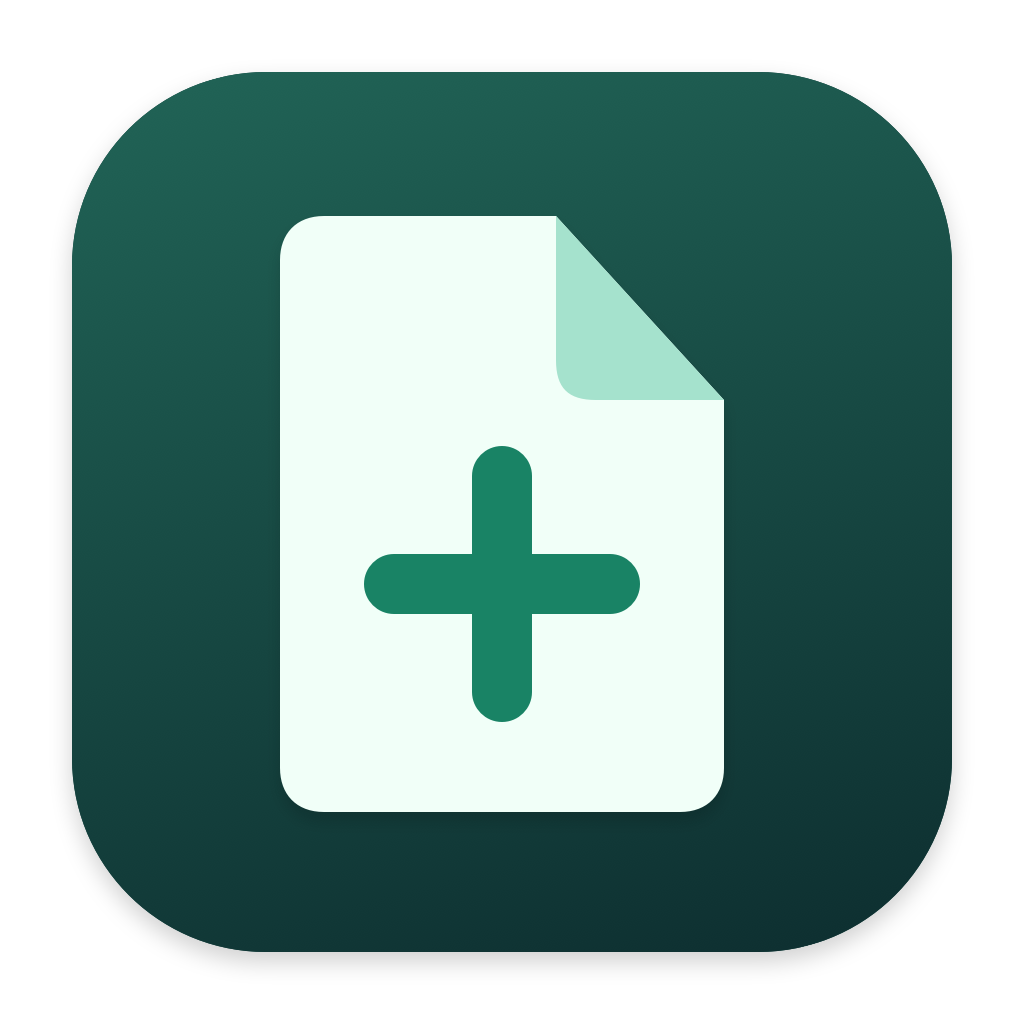
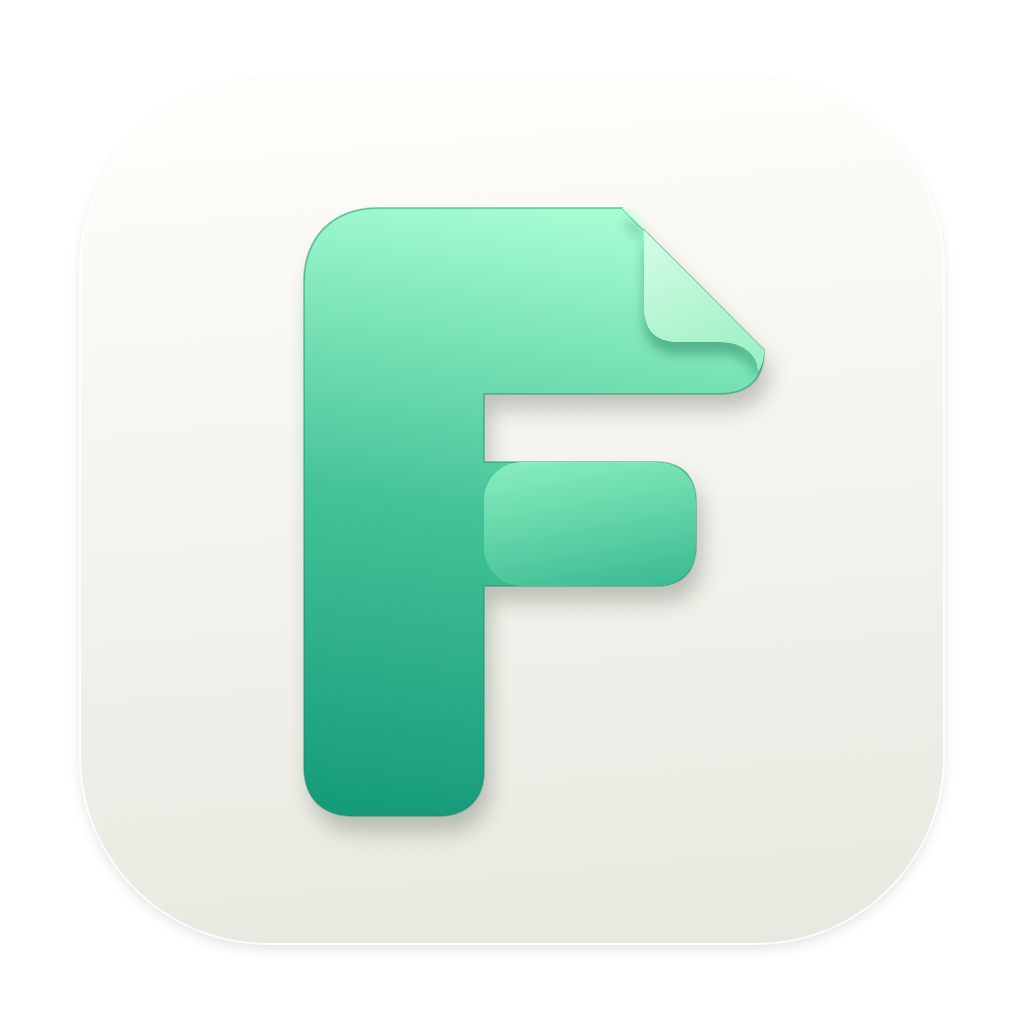
Redesign Folded F identity and make GitHub provenance the default

diff --git a/scripts/generate_app_icon.swift b/scripts/generate_app_icon.swift
@@ -13,17 +13,38 @@ func color(_ r: CGFloat, _ g: CGFloat, _ b: CGFloat) -> NSColor {
     NSColor(srgbRed: r / 255, green: g / 255, blue: b / 255, alpha: 1)
 }
 
-func document() -> NSBezierPath {
+func foldedF() -> NSBezierPath {
     let p = NSBezierPath()
-    p.move(to: NSPoint(x: 324, y: 212))
-    p.line(to: NSPoint(x: 680, y: 212))
-    p.curve(to: NSPoint(x: 724, y: 256), controlPoint1: NSPoint(x: 708, y: 212), controlPoint2: NSPoint(x: 724, y: 230))
-    p.line(to: NSPoint(x: 724, y: 624))
-    p.line(to: NSPoint(x: 556, y: 808))
-    p.line(to: NSPoint(x: 324, y: 808))
-    p.curve(to: NSPoint(x: 280, y: 764), controlPoint1: NSPoint(x: 296, y: 808), controlPoint2: NSPoint(x: 280, y: 790))
-    p.line(to: NSPoint(x: 280, y: 256))
-    p.curve(to: NSPoint(x: 324, y: 212), controlPoint1: NSPoint(x: 280, y: 230), controlPoint2: NSPoint(x: 296, y: 212))
+    p.move(to: NSPoint(x: 354, y: 208))
+    p.line(to: NSPoint(x: 438, y: 208))
+    p.curve(to: NSPoint(x: 484, y: 254), controlPoint1: NSPoint(x: 467, y: 208), controlPoint2: NSPoint(x: 484, y: 225))
+    p.line(to: NSPoint(x: 484, y: 438))
+    p.line(to: NSPoint(x: 654, y: 438))
+    p.curve(to: NSPoint(x: 696, y: 480), controlPoint1: NSPoint(x: 682, y: 438), controlPoint2: NSPoint(x: 696, y: 452))
+    p.line(to: NSPoint(x: 696, y: 520))
+    p.curve(to: NSPoint(x: 654, y: 562), controlPoint1: NSPoint(x: 696, y: 548), controlPoint2: NSPoint(x: 682, y: 562))
+    p.line(to: NSPoint(x: 484, y: 562))
+    p.line(to: NSPoint(x: 484, y: 630))
+    p.line(to: NSPoint(x: 718, y: 630))
+    p.curve(to: NSPoint(x: 764, y: 674), controlPoint1: NSPoint(x: 751, y: 630), controlPoint2: NSPoint(x: 764, y: 647))
+    p.line(to: NSPoint(x: 622, y: 816))
+    p.line(to: NSPoint(x: 378, y: 816))
+    p.curve(to: NSPoint(x: 304, y: 742), controlPoint1: NSPoint(x: 333, y: 816), controlPoint2: NSPoint(x: 304, y: 787))
+    p.line(to: NSPoint(x: 304, y: 258))
+    p.curve(to: NSPoint(x: 354, y: 208), controlPoint1: NSPoint(x: 304, y: 226), controlPoint2: NSPoint(x: 322, y: 208))
+    p.close()
+    return p
+}
+
+func paperFold() -> NSBezierPath {
+    let p = NSBezierPath()
+    p.move(to: NSPoint(x: 622, y: 816))
+    p.curve(to: NSPoint(x: 644, y: 788), controlPoint1: NSPoint(x: 639, y: 816), controlPoint2: NSPoint(x: 644, y: 805))
+    p.line(to: NSPoint(x: 644, y: 720))
+    p.curve(to: NSPoint(x: 680, y: 682), controlPoint1: NSPoint(x: 644, y: 693), controlPoint2: NSPoint(x: 655, y: 682))
+    p.line(to: NSPoint(x: 720, y: 682))
+    p.curve(to: NSPoint(x: 758, y: 653), controlPoint1: NSPoint(x: 742, y: 682), controlPoint2: NSPoint(x: 758, y: 670))
+    p.curve(to: NSPoint(x: 764, y: 674), controlPoint1: NSPoint(x: 763, y: 659), controlPoint2: NSPoint(x: 764, y: 668))
     p.close()
     return p
 }
@@ -36,39 +57,63 @@ func draw(pixels: Int, glyph: Bool = false) -> NSBitmapImageRep {
     NSGraphicsContext.current = NSGraphicsContext(bitmapImageRep: rep)
     let transform = AffineTransform(scale: CGFloat(pixels) / 1024)
     (transform as NSAffineTransform).concat()
+    let shape = foldedF()
     if glyph {
-        let shape = document()
-        NSColor.black.setStroke()
-        shape.lineWidth = 66
-        shape.lineJoinStyle = .round
-        shape.stroke()
-        let plus = NSBezierPath()
-        plus.move(to: NSPoint(x: 394, y: 448)); plus.line(to: NSPoint(x: 610, y: 448))
-        plus.move(to: NSPoint(x: 502, y: 340)); plus.line(to: NSPoint(x: 502, y: 556))
-        plus.lineWidth = 66; plus.lineCapStyle = .round; plus.stroke()
+        // Fit the actual silhouette into 15 points of an 18-point toolbar asset.
+        let placement = AffineTransform(m11: 1.42, m12: 0, m21: 0, m22: 1.42, tX: -246, tY: -215)
+        shape.transform(using: placement)
+        NSColor.black.setFill(); shape.fill()
+        let foldCut = NSBezierPath()
+        foldCut.move(to: NSPoint(x: 636, y: 778))
+        foldCut.line(to: NSPoint(x: 636, y: 703))
+        foldCut.line(to: NSPoint(x: 711, y: 703))
+        foldCut.close()
+        foldCut.transform(using: placement)
+        NSGraphicsContext.current?.compositingOperation = .clear
+        foldCut.fill()
     } else {
-        let tile = NSBezierPath(roundedRect: NSRect(x: 72, y: 72, width: 880, height: 880), xRadius: 194, yRadius: 194)
+        let tile = NSBezierPath(roundedRect: NSRect(x: 80, y: 80, width: 864, height: 864), xRadius: 188, yRadius: 188)
         NSGraphicsContext.saveGraphicsState()
-        let shadow = NSShadow(); shadow.shadowColor = NSColor.black.withAlphaComponent(0.18)
-        shadow.shadowBlurRadius = 24; shadow.shadowOffset = NSSize(width: 0, height: -10); shadow.set()
-        color(19, 69, 64).setFill(); tile.fill()
+        let tileShadow = NSShadow()
+        tileShadow.shadowColor = NSColor.black.withAlphaComponent(0.10)
+        tileShadow.shadowBlurRadius = 12
+        tileShadow.shadowOffset = NSSize(width: 0, height: -5)
+        tileShadow.set()
+        color(247, 246, 240).setFill(); tile.fill()
         NSGraphicsContext.restoreGraphicsState()
-        NSGradient(starting: color(32, 98, 85), ending: color(14, 48, 49))!.draw(in: tile, angle: -75)
+        NSGradient(starting: color(255, 254, 250), ending: color(232, 231, 224))!.draw(in: tile, angle: -85)
+        NSColor.white.withAlphaComponent(0.85).setStroke(); tile.lineWidth = 2; tile.stroke()
+
         NSGraphicsContext.saveGraphicsState()
-        let paperShadow = NSShadow(); paperShadow.shadowColor = NSColor.black.withAlphaComponent(0.14)
-        paperShadow.shadowBlurRadius = 16; paperShadow.shadowOffset = NSSize(width: 0, height: -10); paperShadow.set()
-        color(241, 255, 248).setFill(); document().fill()
+        let paperShadow = NSShadow()
+        paperShadow.shadowColor = color(39, 67, 47).withAlphaComponent(0.28)
+        paperShadow.shadowBlurRadius = 22
+        paperShadow.shadowOffset = NSSize(width: 6, height: -16)
+        paperShadow.set()
+        color(22, 159, 123).setFill(); shape.fill()
         NSGraphicsContext.restoreGraphicsState()
-        let fold = NSBezierPath()
-        fold.move(to: NSPoint(x: 556, y: 808)); fold.line(to: NSPoint(x: 556, y: 664))
-        fold.curve(to: NSPoint(x: 596, y: 624), controlPoint1: NSPoint(x: 556, y: 636), controlPoint2: NSPoint(x: 568, y: 624))
-        fold.line(to: NSPoint(x: 724, y: 624)); fold.close()
-        color(165, 226, 205).setFill(); fold.fill()
-        let plus = NSBezierPath()
-        plus.move(to: NSPoint(x: 394, y: 440)); plus.line(to: NSPoint(x: 610, y: 440))
-        plus.move(to: NSPoint(x: 502, y: 332)); plus.line(to: NSPoint(x: 502, y: 548))
-        plus.lineWidth = 60; plus.lineCapStyle = .round
-        color(25, 131, 101).setStroke(); plus.stroke()
+        NSGradient(colors: [color(21, 154, 122), color(68, 195, 151), color(169, 255, 212)])!
+            .draw(in: shape, angle: 82)
+        color(30, 137, 105).withAlphaComponent(0.42).setStroke()
+        shape.lineWidth = 2; shape.stroke()
+
+        // Subtle sheet overlap; all geometry remains vector-native at small sizes.
+        NSGraphicsContext.saveGraphicsState()
+        shape.addClip()
+        let middle = NSBezierPath(roundedRect: NSRect(x: 484, y: 438, width: 212, height: 124), xRadius: 38, yRadius: 38)
+        NSGradient(starting: color(134, 237, 190), ending: color(60, 187, 146))!.draw(in: middle, angle: -80)
+        NSGraphicsContext.restoreGraphicsState()
+
+        NSGraphicsContext.saveGraphicsState()
+        shape.addClip()
+        let foldShadow = NSShadow()
+        foldShadow.shadowColor = color(5, 96, 64).withAlphaComponent(0.38)
+        foldShadow.shadowBlurRadius = 12
+        foldShadow.shadowOffset = NSSize(width: 0, height: -12)
+        foldShadow.set()
+        color(180, 255, 218).setFill(); paperFold().fill()
+        NSGraphicsContext.restoreGraphicsState()
+        NSGradient(starting: color(221, 255, 235), ending: color(153, 239, 193))!.draw(in: paperFold(), angle: -65)
     }
     NSGraphicsContext.restoreGraphicsState()
     return rep

diff --git a/docs/DISTRIBUTION.md b/docs/DISTRIBUTION.md
@@ -11,6 +11,10 @@ An ad-hoc signature validates bundle integrity but does not identify a trusted
 Apple developer. GitHub provenance identifies a repository/workflow/source
 commit; it does not grant Gatekeeper or Finder extension trust.
 
+CI also retains a reviewable DMG and attests trusted main-branch builds.
+The attestation job never runs for pull requests and has its own narrowly scoped
+OIDC/attestation permissions. Ordinary test/build jobs cannot mint attestations.
+
 The Release workflow checks out the version tag, verifies behavior, builds both
 architectures, signs nested code first, packages and verifies the DMG, attests
 its final bytes, verifies that attestation and only then publishes the assets.
@@ -26,18 +30,17 @@ git push origin main v0.2.0
 Release evidence should include the Actions URL, downloaded asset checksum,
 attestation verification and actual runtime results, not just build success.
 
-## Future Apple channel
+## Standing release policy
 
-When the owner obtains a Developer ID Application certificate, configure the
-app and extension for that team. The current distribution uses a sandbox
-exception limited to the application-owned FileMint support directory, so it
-does not require App Group provisioning. The main app owns destination folder
-bookmarks and writes; Finder uses expiring local request tickets.
+GitHub Releases and GitHub artifact attestations remain the default for all
+future distribution. Apple Developer credentials are not a release prerequisite.
+Any change of channel needs a new owner decision. The optional low-level Apple
+signing helpers are not used by the default workflow and confer no Apple trust
+on the GitHub provenance build.
 
-The signing and notarization scripts support Developer ID identities through
-environment variables. Supply credentials through a local keychain or GitHub
-Secrets; never commit private keys or passwords. Do not use an Apple Development
-certificate as public release certification.
+The sandbox exception is limited to the application-owned FileMint support
+directory. The main app owns destination bookmarks and writes. Finder uses
+expiring local request tickets, with no dependency on App Group provisioning.
 
 ## Primary references
 

diff --git a/specs/SPEC.md b/specs/SPEC.md
@@ -103,9 +103,11 @@ network client, analytics, folder crawling, or clipboard monitoring.
 - Finder menus, format choices and creation controls use text only. The Finder
   toolbar and macOS menu bar retain the small template glyph those entry points
   require. No icon preference.
-- App logo: a simple folded document with a clear plus, mint accent, readable at
-  small sizes. App assets are generated from editable Swift drawing source via
-  `make icon`; generated Xcode project is never edited directly.
+- App logo: a distinctive folded-paper F in fresh mint on a warm porcelain
+  macOS tile. Dock/application assets use the image master; menu bar and Finder
+  toolbar use a separately drawn crisp monochrome F silhouette. No medical-style
+  plus badge. `make icon` regenerates the asset catalog from the masters.
+  The generated Xcode project is never edited directly.
 
 ## Distribution and product presentation
 
@@ -115,9 +117,9 @@ network client, analytics, folder crawling, or clipboard monitoring.
   Neither claims Apple developer identity or notarization. Disclose Gatekeeper
   and Finder extension approval requirements before download. Never tell users
   to disable Gatekeeper globally.
-- A later Developer ID release may add Apple signing and notarization when the
-  owner has a paid developer account. Do not gate the explicitly authorized
-  GitHub provenance release on absent Apple credentials.
+- GitHub Releases and GitHub build provenance are the standing default for
+  future releases, not a temporary fallback. Do not switch channels or make
+  Apple credentials a release prerequisite without a new owner request.
 - CI verifies the core, builds both architectures, validates nested code and
   creates the DMG. Attestation refers to the final bytes uploaded to the release.
 - README leads with the pain solved, actual features, screenshots, download and

diff --git a/Resources/IconSource/BRIEF.md b/Resources/IconSource/BRIEF.md
@@ -1,0 +1,24 @@
+# FileMint visual brief
+
+Tool: built-in ImageGen, used for logo-brand concept generation.
+Reference: FileMint-Concept.png. Production assets: native AppKit vector drawing.
+
+## Concept prompt
+
+Create one completely new, memorable, polished macOS app icon for FileMint, a
+small native tool that instantly creates files. The central symbol is a custom
+uppercase F made from one folded sheet of mint-colored paper: a strong vertical
+stem, a generous top arm with one folded upper-right corner, and a shorter
+middle arm. It should read as an F and a fresh file, with a clear silhouette.
+Use subtly rounded edges, a mint-to-jade material, restrained dimensional light,
+and a delicate cast shadow on a warm porcelain rounded-square tile. Straight-on
+view, simple enough for 32 pixels. No plus sign, medical cross, leaf, folder,
+sparkles, lettering, glass bubbles, icon grid or surrounding objects.
+
+## Production adaptation
+
+The ImageGen concept establishes the composition and folded F direction. The
+shipping icon is drawn independently in AppKit to guarantee smooth boundaries
+and reproducible pixel sizes. It is not a bitmap cleanup or edit of the concept.
+Small toolbar assets use a larger, flattened F with a negative-space folded
+corner; they inherit system tint and contain no baked-in background.

diff --git a/README.en.md b/README.en.md
@@ -34,7 +34,7 @@ Custom suffixes produce **UTF-8 text**. Renaming a suffix does not create a vali
 2. Launch it, enable the Finder extension and authorize your working folders.
 3. Create from Finder.
 
-**Distribution notice:** GitHub Actions builds the DMG and publishes verifiable build provenance plus a SHA-256 checksum. This version has ad-hoc bundle signatures, **no Apple Developer ID signature and no Apple notarization**. macOS may block the first launch or require additional Finder extension approval. GitHub provenance does not replace Apple's trust checks. Read [installation and limitations](docs/INSTALL.md) first.
+**Distribution and provenance:** GitHub Releases is FileMint’s default distribution channel. GitHub Actions builds the DMG and publishes verifiable build provenance plus a SHA-256 checksum. This version has ad-hoc bundle signatures, **no Apple Developer ID signature and no Apple notarization**. macOS may block the first launch or require additional Finder extension approval. GitHub provenance does not replace Apple's trust checks. Read [installation and limitations](docs/INSTALL.md) first.
 
 ## Private by design
 

diff --git a/Resources/IconSource/README.md b/Resources/IconSource/README.md
@@ -1,8 +1,13 @@
-# FileMint icon
+# Folded F identity
 
-The editable vector master is `scripts/generate_app_icon.swift`.
-A folded sheet and one plus sign express file creation. The dark mint tile
-remains distinct in the Dock; toolbar glyphs use the system tint.
+The icon combines FileMint's F with the folded corner of a fresh sheet of paper.
+A porcelain tile and mint material form the Dock/app icon; a separately fitted
+monochrome F serves the menu bar and Finder toolbar at 18 points.
 
-Run `make icon` to render every size directly from the vector master.
-Finder menu rows and the creation panel intentionally have no icons.
+`FileMint-Concept.png` is the built-in ImageGen concept reference. The production
+icons are independently constructed from vector geometry in
+`scripts/generate_app_icon.swift`, so the alpha boundary and small glyphs stay
+precise. `make icon` rebuilds all PNGs from that native master.
+
+The concept prompt and production decisions are in `BRIEF.md`.
+Finder menus and creation controls remain text only.

diff --git a/docs/ACCEPTANCE.md b/docs/ACCEPTANCE.md
@@ -34,6 +34,9 @@ Final native regression after the storage/IPC change is awaiting the owner's
 at-action approval to launch the locally built, non-notarized app. Automatic
 computer-use approval rejected that launch; it has not been bypassed.
 
-GitHub publication and final downloaded-asset verification have not yet run.
+GitHub CI passed for the implementation commit (be5fe48). The subsequent folded-F
+icon refresh updates branding assets. CI now packages a DMG and verifies GitHub
+provenance for trusted main-branch builds in a separate job. GitHub Release
+publication and final downloaded-asset verification have not yet run.
 Intel execution and a clean-Mac first-install check are unavailable on this host;
 universal compilation is not evidence of those runtime checks.

diff --git a/specs/ROADMAP.md b/specs/ROADMAP.md
@@ -10,6 +10,6 @@
 
 ## Later, with evidence from real use
 
-- Apple Developer ID signing and notarization when credentials are available.
+- Keep GitHub Releases and GitHub provenance as the default distribution policy.
 - Optional global hotkey, only if Finder and Command-N entry points are insufficient.
 - Binary templates imported from real files; changing a suffix is not conversion.
